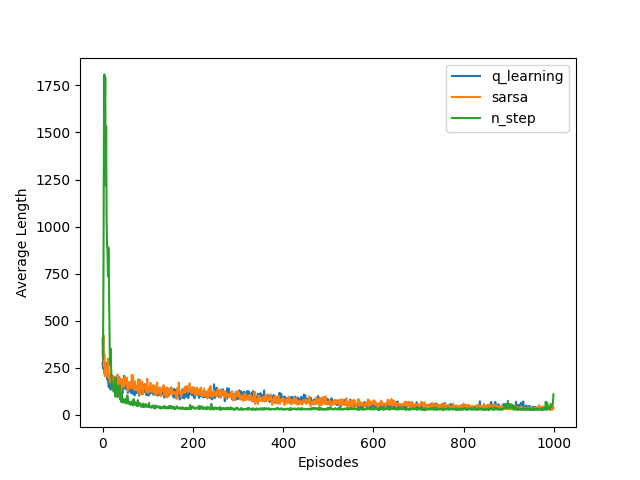
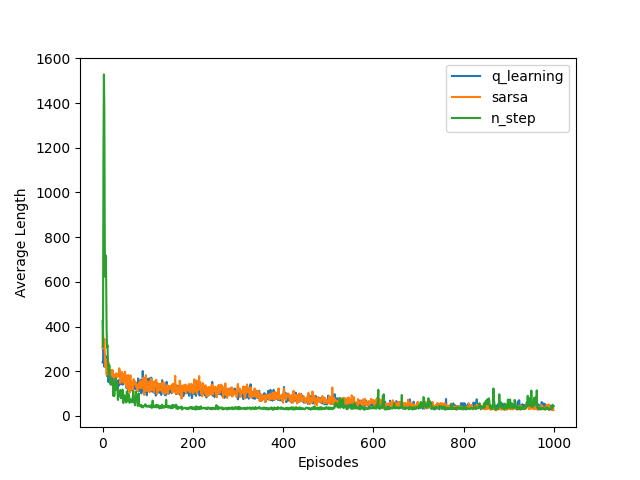
chore: Update n step to 16 steps in partially observable

diff --git a/MainPartiallyObservable.py b/MainPartiallyObservable.py
@@ -72,7 +72,10 @@ if __name__ == '__main__':
     for baseline in baselines:
         average_lengths = np.zeros(num_of_episodes)
         for i in range(num_of_experiments):
-            lengths = baseline(env, num_of_episodes)
+            if baseline == run_n_step:
+                lengths = baseline(env, num_of_episodes, n=16)
+            else:
+                lengths = baseline(env, num_of_episodes)
             average_lengths += (lengths - average_lengths) / (i + 1)
             print(f"Experiment {i + 1} finished")
         baselines_avg_lengths[baseline.__name__[4:]] = average_lengths

diff --git a/MainMultiGoal.py b/MainMultiGoal.py
@@ -59,8 +59,8 @@ def run_sarsa(env, num_episodes):
         episode_lengths[episode] = episode_length
     return episode_lengths
 
-def run_n_step(env, num_episodes):
-    agent = NStep(env.action_space, 8, gamma=0.99, alpha=0.1, epsilon=0.1)
+def run_n_step(env, num_episodes, n=8):
+    agent = NStep(env.action_space, n, gamma=0.99, alpha=0.1, epsilon=0.1)
     episode_lengths = np.zeros(num_episodes)
     for episode in range(num_episodes):
         agent.reset_stores()

diff --git a/README.md b/README.md
@@ -16,6 +16,8 @@ These domains can be executed by running the command:
 python MainMultiAgent.py
 ```
 
+A menu will appear to select the type of setting you want to try: Centralized Cooperative, Decentralized Cooperative, and Decentralized Competitive; or to plot the average episode length of the settings. All settings run agents of Q learning to control the hunters, and prey for the last setting.
+
 ### Partially Observable Domains 🔐
 The next command will let you try this domain:
 ```bash
@@ -23,3 +25,10 @@ python MainPartiallyObservable.py
 ```
 
 This will display a menu where you can select the type of memory you might want to add to the agents, the options are: No Memory, K-order memory, Binary memory, and K-order buffer. Then, the experiment will run Q learning, Sarsa and 16-step Sarsa 30 times with a 1000 episodes. Finally, a graph will be generated comparing the average episode length of each agent.
+
+The execution times are:
+
+- `No Memory`: ~8.5 minutes
+- `K-order memory`: ~2 minutes
+- `Binary memory`: ~3 minutes
+- `K-order buffer`: ~40 seconds
